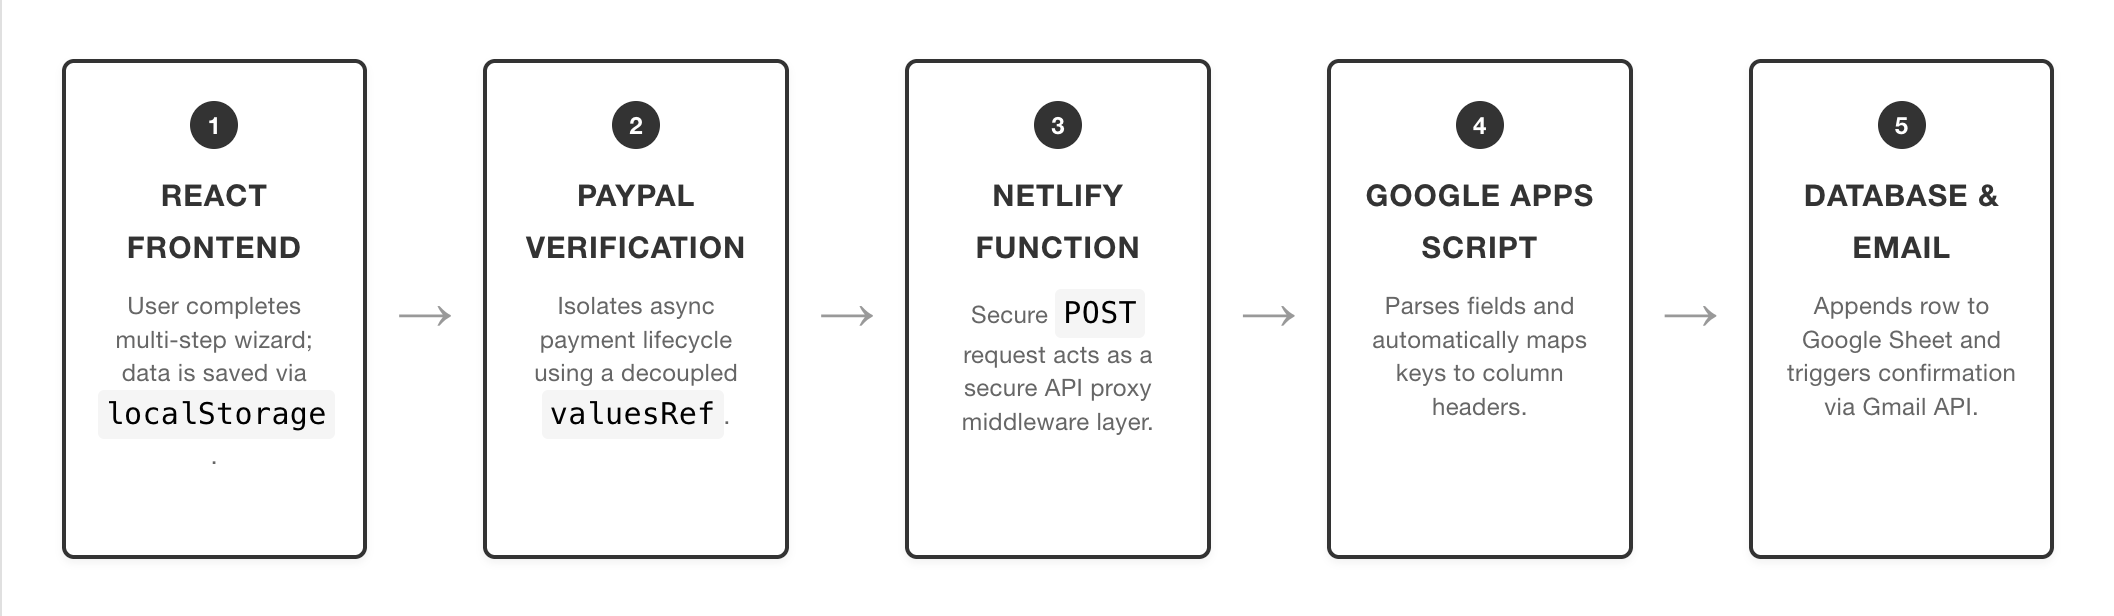
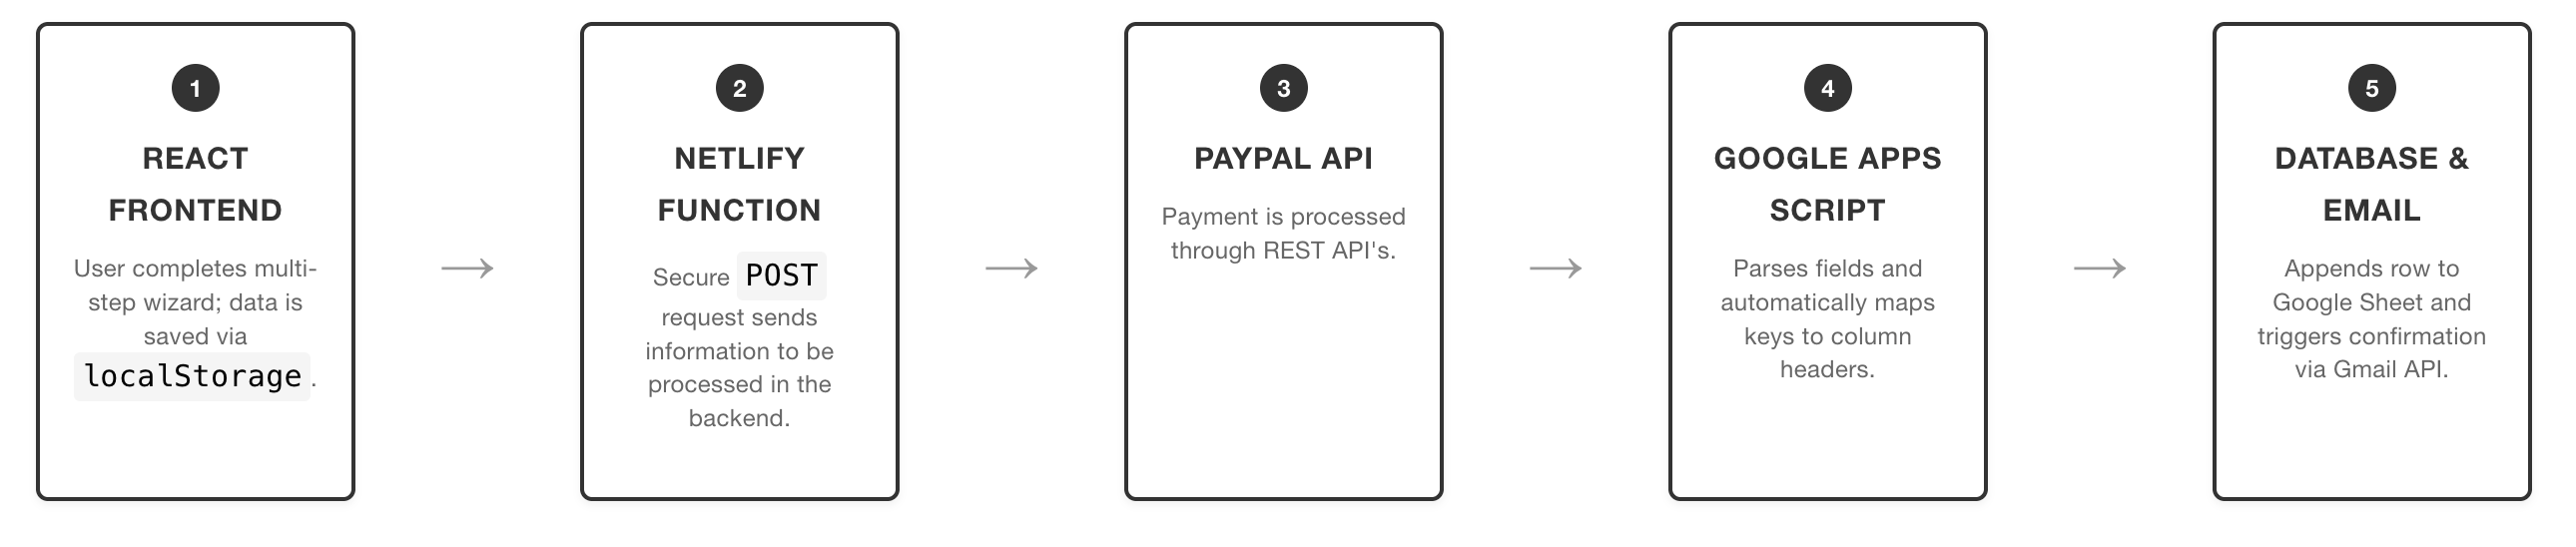
fixed payment logic on dragons website

diff --git a/src/pages/Dragons.jsx b/src/pages/Dragons.jsx
@@ -103,7 +103,7 @@ function Dragons() {
       content: (
         <div className="slide-inner-content">
           <h1>Register</h1>
-          <p>This tournament registration system connects a custom React frontend with a secure serverless backend to create a smooth, automated user experience. Players move through a multi-step registration wizard that saves progress locally, securely handles PayPal payments, and instantly triggers a backend workflow that saves the info on a Google Sheet and sends a confirmation email. Serverless functions act as a protected API layer, keeping Google Sheets endpoints, transaction logic, and automation details hidden from the client. The system dynamically manages pricing, logs registrations, and sends confirmation emails automatically, all without manual maintenance or separate server hosting costs.
+          <p>This tournament registration system connects a custom React frontend with a secure serverless backend to create a smooth, automated user experience. Players move through a multi-step registration wizard that saves progress locally then triggers a backend workflow that securely handles PayPal payments and saves the info on a Google Sheet and sends a confirmation email. Serverless functions act as a protected API layer, keeping Google Sheets endpoints, transaction logic, and automation details hidden from the client. The system dynamically manages pricing, logs registrations, and sends confirmation emails automatically, all without manual maintenance or separate server hosting costs.
           </p>
           <img src = {flowchart} alt = ''/>
           <div className='slide-footer'>

diff --git a/src/pages/Home.jsx b/src/pages/Home.jsx
@@ -39,6 +39,8 @@ function Home() {
         </Link>
         <p>^ CLICK TO VIEW WORK ^</p>
       </div>
+
+      
       
       <div className='home-footer'>
         <p>CREATED IN 2026</p>